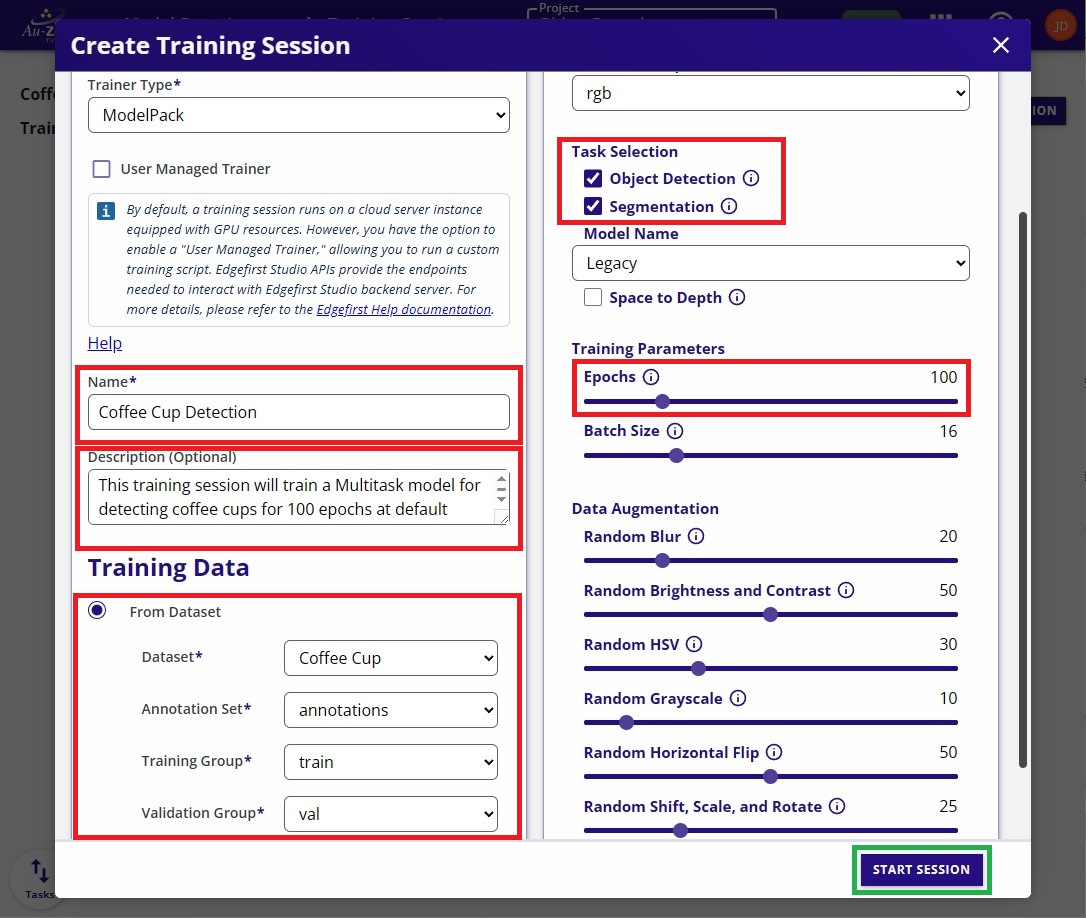
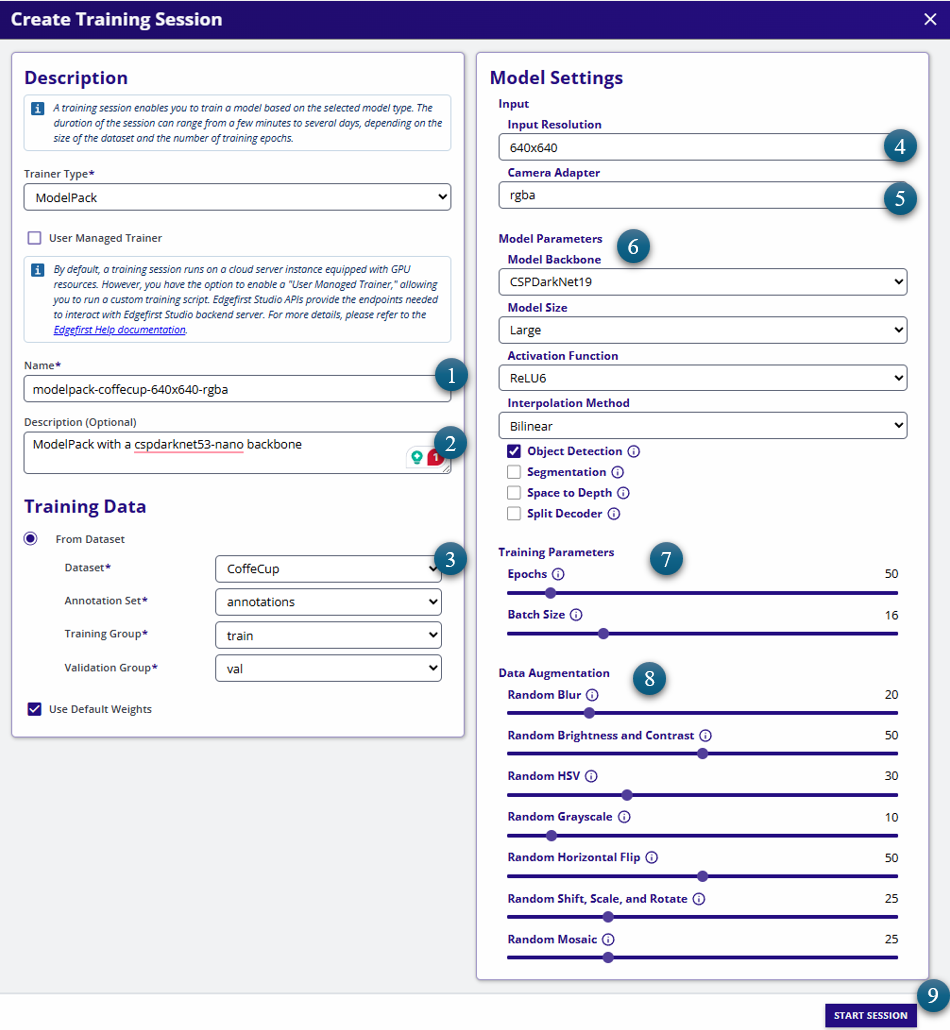
add new modelpack training GUI to docs

diff --git a/docs/models/modelpack/training.md b/docs/models/modelpack/training.md
@@ -68,7 +68,7 @@ Start a training session by clicking on the "New Session" button on the top righ
 <figcaption>New Session Button</figcaption>
 </figure>
 
-You will be greeted with a training session dialog.  In this dialog, specify the "Trainer Type" to "ModelPack" and provide a name and description of the training session as shown below.  Next specify the dataset to be used with training and validation partitions.  In this example, the dataset specified is the "Coffee Cup" dataset which was created in the [Getting Started](../../index.md).  Next specify the training parameters.  By default, an object detection (bounding boxes) model will be trained.  However, you can specify either "Segmentation" or "Multitask" as shown below.  This model will output both bounding boxes and segmentation masks.  Additional information on these parameters are provided by hovering over the info button ![Info Button](../../assets/buttons/studio-info-button.jpg).
+You will be greeted with a training session dialog.  In this dialog, specify the "Trainer Type" to "ModelPack" and provide a name and description of the training session as shown below.  Next specify the dataset to be used with training and validation partitions.  In this example, the dataset specified is the "modelpack-coffecup-640x640-rgba" dataset which was created in the [Getting Started](../../index.md).  Next specify the training parameters.  By default, an object detection (bounding boxes) model will be trained.  However, you can specify either "Segmentation" or "Multitask" as shown below.  This model will output both bounding boxes and segmentation masks.  Additional information on these parameters are provided by hovering over the info button ![Info Button](../../assets/buttons/studio-info-button.jpg).
 
 !!! tip "Input Resolution"
     We recommend changing the input resolution to 640x360 to maximize detection rates on small datasets.
@@ -83,7 +83,24 @@ For more information on available "Data Augmentations" please see [Vision Augmen
 <figcaption>Training Session Fields</figcaption>
 </figure>
 
-Once the configurations have been made, go ahead and click on the "Start Session" button on the bottom right of the window.  This will start the training session which will train the model for the number of epochs specified.
+ 1. Model Name: This field specify the name of the trining session and will be used to name the artifacts (e.g. `modelpack-coffecup-640x640-rgba.tflie`, `modelpack-coffecup-640x640-rgba.onnx`)
+ 2. Description: This fiels is used to add some hints about the training session. Commonly used to highlight some parameters.
+ 3. Training Data: In this section the user must select the dataset as well as train/val groups
+ 4. Input Resolution: The user can pick predifined input resulutions. Even when ModelPack accepts any resolution we keep this option as simpler as possible. In case you need a different resolution to be supported, please get in touch with our team.
+ 5. Camera Adaptor: ModelPack accepts three different input optimizations. It could be either of rgb, rgba, or yuyv.
+ 6. Model Parameters: This section configures the model architecture. 
+    1. Model Backbone: Model backbone exposes a CSPDarknet19 optimized for boosting inference time and a CSPDarknet53 optimized for accuracy.
+    2. Model Size: Similar to modern architectures, ModelPack also accept dynamic scaling factors (`width in [0.25, 0.5, 0.75, 1.0]`, `depth in [0.33, 0.33, 0.66, 1.0]`).
+    3. Activation Function: Thids parameter defines the main activation used in the model. Exposed values are ReLU, ReLU6 and SiLU. The best tradeoff between speed and accuracy is produced by ReLU6 activation in most of the cases.
+    4. Interpolation Method: Model upsample layers are ruled by a resize operation. This operation can run with two different algorithms: `Bilinear` or `Nearest`
+    5. Object Detection: Enables object detection task (enabled by default)
+    6. Segmentation: Enables Semantic Segmentation
+    7. Space to Depth: This feaute enables the Space to Depth Transformation to the input in order to reduce model complexity on higher resolutions.
+    8. Split Decoder: Remove the decoder from the model and use a very optimized one from edgefirst. This feature is very useful when the location of the boxes has to be precise (0-offset)
+ 7. Training Parameters: In this section the user is able to specify the number of epochs to train the model as well as the batch size. Remember the larger the input reslution the smaller the batch size. 
+ 8. Data Augmentation: This section controls the probablity of each augmentation technique. This feature is crucial for training models  and reduce overfitting, specially in small datasets.
+ 9. Start Session: This button will start the training session
+
 
 ## Session Progress
 

diff --git a/docs/models/modelpack/index.md b/docs/models/modelpack/index.md
@@ -14,7 +14,7 @@ ModelPack is optimized for real-time vision applications such as industrial auto
 ## ModelPack Architecture
 ModelPack is a modern object detector and it adopts similar scaling strategies seen in the YOLO family models. 
 The model expands and contracts based on the width and height parameters. 
-Modelpack shares a Darknet53 backbone similar to [YOLOx](https://arxiv.org/pdf/2107.08430v2). 
+Modelpack shares two main backbones: a Darknet53 backbone similar to [YOLOx](https://arxiv.org/pdf/2107.08430v2) which maximizes accuracy and a Darknet19 backbone for boosting inference time. 
 Different than YOLOx, ModelPack is NOT anchor free, which makes the model more accurate and stable after quantization.
 
 ![Darknet-53 Backbone](../assets/darknet-53-backbone.png)
